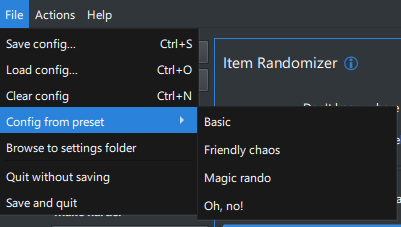
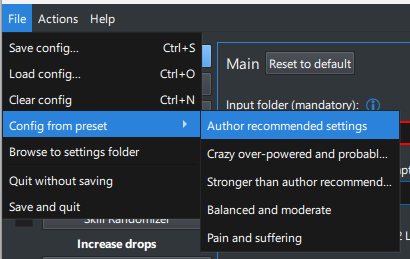
Release 1.0.0

diff --git a/qml/Modules/ModuleMonRandomizer.qml b/qml/Modules/ModuleMonRandomizer.qml
@@ -24,14 +24,14 @@ WidgetCommonTab {
     }
 
     WidgetSlider {
-        caption: qsTr("Add new monster spawn type in area, min")
+        caption: qsTr("Add new monster spawn type in area, Max")
         tooltip: qsTr("This option defines how many possibilites for monster types are exist in one zone;<br>Make this value lower if you want less variety between game restarts.<br>Note: D2 legacy support only 12 max, so value will be lowered implicitly.")
         value_key: root.value_context.spawnGenerateMin
         isCompact: true
     }
     WidgetSlider {
         caption: qsTr("Add new monster spawn type in area, Max")
-        value_key: root.value_context.spawnGenerateMin
+        value_key: root.value_context.spawnGenerateMax
         isCompact: true
     }
 

diff --git a/src/Config/Config.hpp b/src/Config/Config.hpp
@@ -165,7 +165,7 @@ struct Config : public CommonStruct {
             CommonSettings()
             {
                 addScalar("doOverride", m_doOverride).setZero(false).setRecc(false);
-                addScalar("rollMode", m_rollMode).setRange(0, 3).setZero(0).setRecc(3);
+                addScalar("rollMode", m_rollMode).setRange(0, 3).setZero(0).setRecc(0).addPreset(0, 3).addPreset(1, 3);
                 addScalar("itemLevel", m_itemLevel).setRange(5, 150).setZero(100).setRecc(100).setPercent();
                 addScalar("reqLevel", m_reqLevel).setRange(5, 150).setZero(100).setRecc(100).setPercent();
                 addScalar("randoKeepOriginalPercent", m_randoKeepOriginalPercent).setRange(0, 100).setZero(100).setRecc(50).setPercent().addPreset(0, 25).addPreset(3, 0);

diff --git a/README.md b/README.md
@@ -15,19 +15,19 @@ See screenshots below to have a look what d2modgen supports - and you can get co
 If you interested in history of changes, [changelog is here](Changelog.md)
 
 # Quick start
-![mainwindow](docs/mainwindow.png "Main Window")  
+![mainwindow](docs/main_main.png "Main Window")  
 Main Window  
 1. Download zip archive from [releases page](https://github.com/mapron/d2modgen/releases);
 2. Extract wherever you want and go inside extracted folder;
 3. Run modgen.exe in root folder; (see the screenshot);
 4. Check if "Input folder" is filled correctly; if not, edit it manually to point "Diablo II Resurrected/" folder;
-5. Select "File" => "Config from preset" => "Basic";
+5. Select "File" => "Config from preset" => "Author recommended settings";
 6. Press "Generate" button.
 
 Now randomizer mod is created, see next chapter how to set launch for D2R.
 
 # Set launch for mod in D2R
-![mainwindow](docs/extrawindow.png "Extra Tab")  
+![mainwindow](docs/main_extra.png "Extra Tab")  
 Go to "Extra" Tab
 1. Optional; press "Copy Settings.json" to initialize new mod with your default game settings (music volume, etc);
 2. Optional; press "Copy all save files" to copy character files to randomizer mod;
@@ -47,8 +47,8 @@ Note 3: if you want to return to unmodded, press "Reset launch to unmodded" (aga
 
 # Start new config from preset
 ![presets_menu](docs/presets_menu.png "Presets menu")  
-There are 4 premade configs to quickly start rando!  
-Go to [Presets readme](presets/readme.txt) to learn more about them.  
+There are 5 pre-made configs to quickly start rando!  
+For starters I recommend first in the list.
 
 # How it looks like
 ![density](docs/density.png "Density")  
@@ -68,69 +68,57 @@ A lot of features enabled here - more Boss drops, increased Uniques/drop count/R
 1. Game (D2 and D2R) stores a lot of properties/balance of game cotent in tables - imagine an Excel spreadsheet or database table inside the game. One way to modify this data - provide a set of txt files (which are CSV - tab-separted). Starting with D2R, that can be done in a very simple way - creating a mod subfolder, so custom mod no not override the main game. d2modgen utilizes this feature.
 2. Main game data located in "D2R folder", mod in "D2R folder/mod/modname/modname.mpq/"; save files stored in "User folder/Saved Games", mod save files (and games settings) stored in  "User folder/Saved Games/mods/modname". You can easily transfer your data between modded and non-modded versions (for example, shared storage).
 3. To run the game in modded version, you need to provide command-line option, like "-mod rando -txt" will run D2R with mod "rando" enabled.
-4. You can check "Export all .txt" checkbox, and have you own mod setup instead (mod folder is filled by D2R internal files).
 
 # Feature tabs
 For each tab, just click or hover over question button (?) to get help about features on each page.  
 Also, as you noticed, support for Dark and Light theme is available - choose what you prefer in Actions -> Theme.
 
+#### Main item balance settings  
+![items](docs/main_balance.png)  
+
 #### Randomize items  
-![Randomize items](docs/tab_random_items.png)  
+![Randomize items](docs/rando_item.png)  
 
 #### Randomize monsters  
-![Randomize monsters](docs/tab_random_monsters.png)  
+![Randomize monsters](docs/rando_monster.png)  
 
-#### Randomize some character skills  
-![Randomize skills](docs/tab_random_skills.png)  
+#### Randomize some skills  
+![Randomize monsters](docs/rando_skill.png)  
+
+#### Increase item drops 
+![Increase item drops](docs/increase_items.png)  
+
+#### Increase rune drops 
+![Increase rune drops](docs/increase_runes.png)  
 
 #### Change monster stats  
-![monster stats](docs/tab_harder_stats.png)  
-
-#### Increase monster and elites density
-![monster density](docs/tab_harder_density.png)  
+![monster stats](docs/harder_monstats.png)  
 
 #### Challenge difficulty  
-![Challenge](docs/tab_harder_challenge.png)  
+![Challenge](docs/harder_challenge.png)  
 
 #### Cube recipes to blaze through  
-![Horadric Cube](docs/tab_easy_cube.png)  
+![Horadric cube](docs/misc_cube.png)  
 
 #### Easier Gambling
-![Gambling](docs/tab_easy_gamble.png)  
+![Gambling](docs/misc_gamble.png)  
 
 #### Character
-![Character](docs/tab_easy_character.png)  
-
-#### Increase item drops
-![Drops](docs/tab_easy_drops.png)  
-
-#### Increase Rune drops
-![Drops](docs/tab_easy_drops_runes.png)  
-
-#### Make everything perfect
-![Perfect](docs/tab_easy_perfect.png)  
-
-#### Change requirements
-![requirements](docs/tab_easy_requirements.png)  
+![Character](docs/misc_character.png)  
 
 #### Quality of life
-![Qol](docs/tab_misc_qol.png)  
-
-#### Filter your drops
-![Drops filter](docs/tab_misc_filter.png)  
+![Quality of life](docs/misc_qol.png)  
 
 
 # Using commandline
-You also can run d2modgen in commandline mode (without UI). ```bin/modgen_console.exe```  
-will generate output using default application config (in LOCAPAPPDATA).  
+You also can run d2modgen in commandline mode (without UI). `bin/modgen_console.exe`   
+will generate output using default application config (in `%LOCALAPPDATA%`).  
 You can create script/batch file/global hotkey command that runs this executeable, and it will generate and update mod files.  
 If you want to have new seed on every run, use "Create new seed on every Generate call" checkbox.  
 
 # KnownIssues
 1. If there is many dead bodies on the screen, some portals won't open (e.g. near Summoner). Workaround - go far away to another location, wait while corpses disappeared and then trigger the portal.
-2. If charges spawned on a gem/rune, it will constantly update count on gem mouse hover. This glitch is fixes after gem is inserted in socket.
-3. Game trying to render limited item label on the screen - if there are too many items, you will see only closest ones. Use DropFiltering tab feature.
-4. You need to completely quit out of the game for Diablo 2 Resurrected, for mod changes to apply. In Diablo 2 legacy, however, you can just reload save again without quitting.
+2. You need to completely quit out of the game for Diablo2:Resurrected, for mod changes to apply. In Diablo2 legacy (LoD/PD2), however, you can just reload save again without quitting.
 
 # How to build from the source
 Prerequisites:
@@ -143,7 +131,7 @@ If requirements are met, then go "cmake/build/build install". For windows platfo
 # Contribute
 1. follow clang-format rules in `src/` directory;
 2. Generator logic is in `src/CoreLib/Modules/`;
-3. Corresponding ui configs are in `qml/Module-Something-.qml`
+3. Corresponding ui configs are in `qml/Modules/Module-Something-.qml`
 
 # Used thirdparty products
 - (MIT) CascLib (https://github.com/ladislav-zezula/CascLib) is used for Blizzard CASC data storage read;
